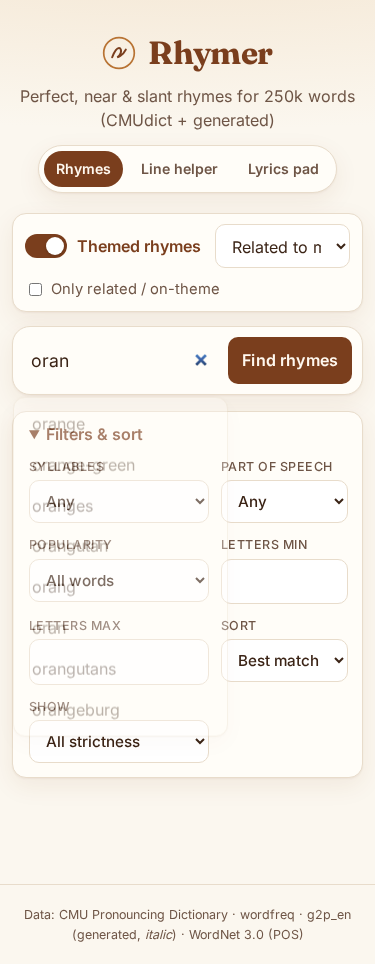
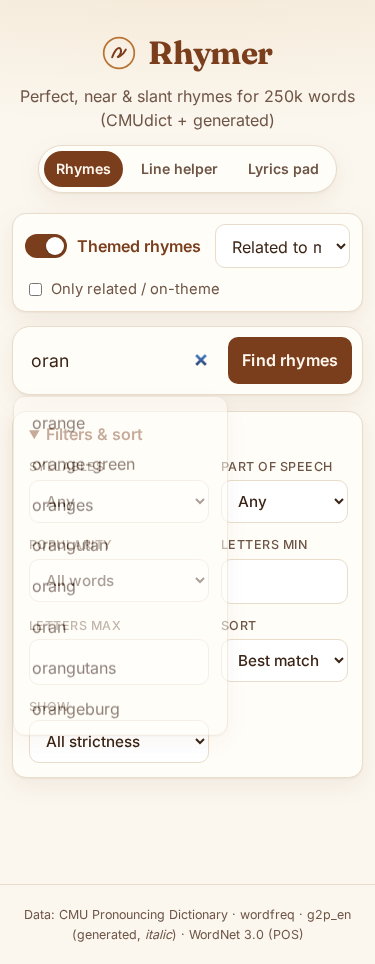
v6: brainstorm verify keeps only real common words (no invented spellings/names), caps templated phrases, AI items placed after top local results

Changed region(s): [[0.088, 0.4357, 0.3813, 0.529], [0.088, 0.5602, 0.2933, 0.6535], [0.088, 0.6846, 0.3227, 0.7469]]

diff --git a/static/api-shim.js b/static/api-shim.js
@@ -200,9 +200,13 @@ function related(q){const raw=(q.get("word")||"").trim();if(!raw)return[400,{err
 function verify(word,items){const w=String(word||"").trim().toLowerCase();if(!WORD_RE.test(w))throw new RangeError("invalid word");
   if(!Array.isArray(items)||items.length>200||!items.every(x=>typeof x==="string"&&x.length>0&&x.length<=60))throw new RangeError("invalid items");
   const cd=candidates(w),qph=cd.prons.length?cd.prons[0]:[],tierOf=new Map();for(const t of["slant","near","perfect"])for(const[c]of cd[t])tierOf.set(c,t);
-  const qtail=qph.length?tailVowels(qph):1,out=[],seen=new Set();
+  const qtail=qph.length?tailVowels(qph):1,out=[],seen=new Set(),pre=new Map(),ends=new Map();
   for(const raw of items){const text=raw.toLowerCase().replace(/[^a-z' \-]/g," ").replace(/\s+/g," ").trim();const toks=text.replace(/-/g," ").split(" ").filter(Boolean);
     if(!toks.length||seen.has(text)||toks[toks.length-1]===w)continue;seen.add(text);let t;
+    const lw=toks[toks.length-1],last=W.info.get(lw);
+    if(!last||!last.pos.length||last.freq<2.8||lw.length<2||(toks.length===1&&LX().relStop.has(lw))||LX().filler.has(lw))continue;
+    if(toks.some(x=>!W.info.has(x)||W.info.get(x).freq<2.5))continue;
+    if(toks.length>1){const k2=toks.slice(0,2).join(" ");pre.set(k2,(pre.get(k2)||0)+1);ends.set(lw,(ends.get(lw)||0)+1);if(pre.get(k2)>2||ends.get(lw)>2)continue}
     if(toks.length===1&&tierOf.has(toks[0]))t=tierOf.get(toks[0]);else{const ph=phrasePhones(toks,guessPron);t=ph&&qph.length?tailTier(qph,ph):null}
     if(t===null)continue;const ph=phrasePhones(toks,guessPron)||[],vm=qph.length?vowelMatch(qph,ph):0;
     if(t==="assonant"&&vm<2&&toks.length>1)continue;const syl=ph.filter(isV).length;

diff --git a/static/app.js b/static/app.js
@@ -122,8 +122,9 @@ function phraseBtn(p,ai){return `<button type="button" class="phrase t-${p.tier}
 const REL_CAP={perfect:30,multi:24,slant:30,phrase:16},relOpen=new Set();
 function renderRel(slot,d,bs){const g={perfect:[],multi:[],slant:[],phrase:[]},seen=new Set();
   d.related.forEach(x=>{g[x.group].push(chip(x,false));seen.add(x.word)});d.phrases.forEach(p=>{g.phrase.push(phraseBtn(p,false));seen.add(p.text)});
-  let added=0;if(bs&&bs.items)bs.items.forEach(x=>{if(seen.has(x.text))return;seen.add(x.text);added++;
-    if(x.group==='phrase')g.phrase.unshift(phraseBtn({text:x.text,tier:x.tier},true));else g[x.group].unshift(chip({word:x.text,tier:x.tier,matched:x.matched},true))});
+  let added=0;const ai={};if(bs&&bs.items)bs.items.forEach(x=>{if(seen.has(x.text))return;seen.add(x.text);added++;
+    const k=x.group==='phrase'?'phrase':x.group;(ai[k]=ai[k]||[]).push(k==='phrase'?phraseBtn({text:x.text,tier:x.tier},true):chip({word:x.text,tier:x.tier,matched:x.matched},true))});
+  for(const k in ai)g[k].splice(Math.min(10,g[k].length),0,...ai[k]);
   const total=Object.values(g).reduce((a,x)=>a+x.length,0);
   const bsState=!bsOn()?'off':bs===undefined?'loading':bs&&bs.error?'error':bs?'done':'off';
   slot.innerHTML=`<section class="card relcard" id="relCard" data-bs="${bsState}"><div class="relhead"><h2 class="ptitle">Related to “${esc(d.word)}” <span class="badge b-perfect" id="relTotal">${total}</span></h2>

diff --git a/engine.py b/engine.py
@@ -445,12 +445,19 @@ def _verify(self, word, items):
         for c, m, _ in cd[t]: tier_of[c] = t
     qtail_v = sum(1 for p in rhyme_tail(qph) if strip(p) in VOWELS) if qph else 1
     guess = lambda t: (self.pronunciations(t)[0] or [None])[0]
-    out, seen = [], set()
+    out, seen, pre, ends = [], set(), {}, {}
     for raw in items:
         text = re.sub(r"\s+", " ", re.sub(r"[^a-z' \-]", " ", raw.lower())).strip()
         toks = text.replace("-", " ").split()
         if not toks or text in seen or toks[-1] == w: continue
         seen.add(text)
+        # only real, common words: AI brainstorms invent spellings ("nyte", "vart") and dredge up names ("moe")
+        last = self.info.get(toks[-1])
+        if not last or not last["pos"] or last["freq"] < 2.8 or len(toks[-1]) < 2 or (len(toks) == 1 and toks[-1] in REL_STOP) or toks[-1] in FILLER: continue
+        if any(x not in self.info or self.info[x]["freq"] < 2.5 for x in toks): continue
+        if len(toks) > 1:
+            k2 = " ".join(toks[:2]); pre[k2] = pre.get(k2, 0) + 1; ends[toks[-1]] = ends.get(toks[-1], 0) + 1
+            if pre[k2] > 2 or ends[toks[-1]] > 2: continue  # "gonna be the light / might / sight / right ..."
         if len(toks) == 1 and toks[0] in tier_of: t = tier_of[toks[0]]
         else:
             ph = phrase_phones(toks, self.info, guess)

diff --git a/tests/test_static.py b/tests/test_static.py
@@ -158,7 +158,8 @@ def test_related_and_rank_parity(browser, site_url, engine):
         assert all(abs(a["score"] - b["score"]) < 1e-3 for a, b in zip(js["related"], py["related"]))
         assert [(p["text"], p["tier"], p["source"]) for p in js["phrases"]] == [(p["text"], p["tier"], p["source"]) for p in py["phrases"]], w
         assert js["groups"] == py["groups"] and js["phrase_total"] == py["phrase_total"]
-    items = ["glow", "below zero", "let it go", "frozen", "cold", "banana", "white glow", "overflow", "snow", "go-getter"]
+    items = ["glow", "below zero", "let it go", "frozen", "cold", "banana", "white glow", "overflow", "snow", "go-getter", "moe", "sorrowslow", "o", "bestow", "sloe",
+             "gonna be the glow", "gonna be the flow", "gonna be the throw", "let it flow", "let it show", "let it grow"]
     js = pg.evaluate("async a => (await (await fetch('api/verify', {method:'POST', body: JSON.stringify(a)})).json())", {"word": "snow", "items": items})
     assert js == engine.verify("snow", items)
     js = pg.evaluate("async () => (await (await fetch('api/rhymes?word=snow&theme=related&limit=5000')).json())")

diff --git a/tests/test_related.py b/tests/test_related.py
@@ -128,3 +128,10 @@ def test_rank_sense_nonsense_penalty(engine):
     r = {x["text"]: x for x in engine.rank_lines("my heart is beating like a drum", lines, sense=[2, 8])["lines"]}
     r6 = {x["text"]: x for x in engine.rank_lines("my heart is beating like a drum", lines, sense=[6, 8])["lines"]}
     assert r[lines[0]]["sense"] == 2 and r6[lines[0]]["score"] - r[lines[0]]["score"] >= 35 and r[lines[1]]["score"] > r[lines[0]]["score"]
+
+def test_verify_rejects_junk(engine):
+    keep = {x["text"] for x in engine.verify("night", ["nyte", "nite", "plight", "upright", "might", "gonna be the delight", "gonna be the right",
+        "gonna be the sight", "with all my might", "in plain sight"])["items"]}
+    assert keep == {"plight", "upright", "gonna be the delight", "gonna be the right", "with all my might", "in plain sight"}, keep
+    keep = {x["text"] for x in engine.verify("heart", ["vart", "shart", "kart", "airt", "cart", "impart", "falling apart"])["items"]}
+    assert keep == {"cart", "impart", "falling apart"}, keep
